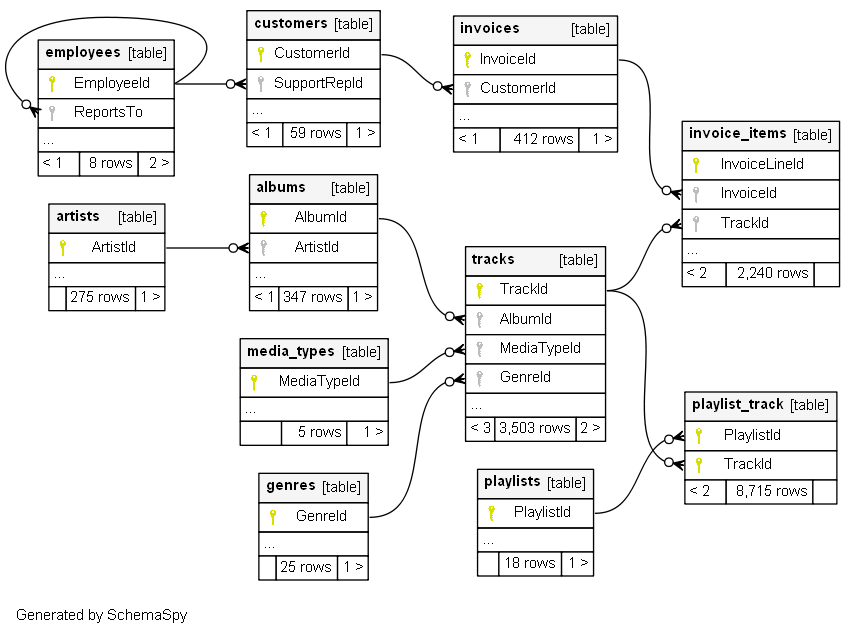
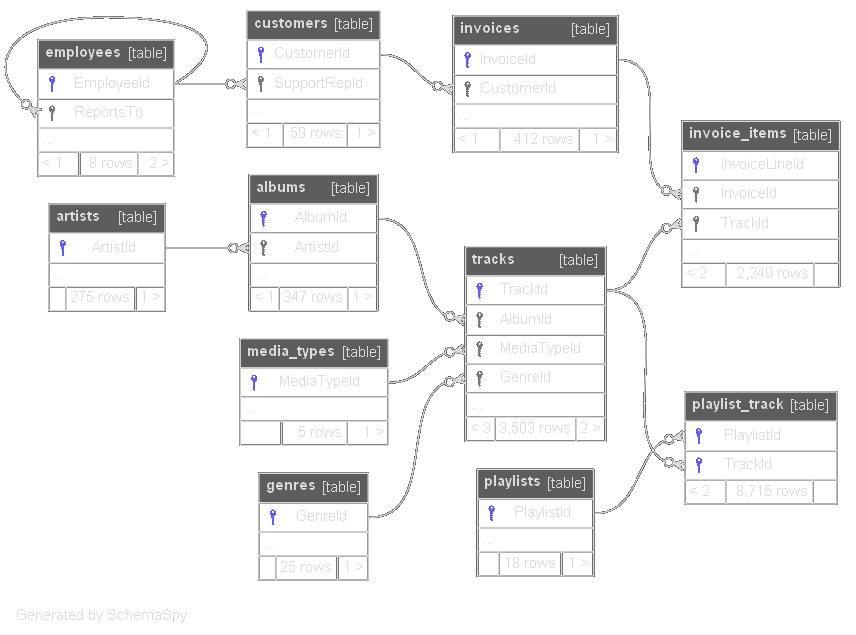
added cool stuff

diff --git a/static/bundle.js b/static/bundle.js
@@ -226,7 +226,7 @@ eval("\n\nif (false) {} else {\n  module.exports = __webpack_require__(/*! ./cjs
 /***/ (function(module, __webpack_exports__, __webpack_require__) {
 
 "use strict";
-eval("__webpack_require__.r(__webpack_exports__);\n/* harmony import */ var react__WEBPACK_IMPORTED_MODULE_0__ = __webpack_require__(/*! react */ \"./node_modules/react/index.js\");\n/* harmony import */ var react__WEBPACK_IMPORTED_MODULE_0___default = /*#__PURE__*/__webpack_require__.n(react__WEBPACK_IMPORTED_MODULE_0__);\n/* harmony import */ var react_dom__WEBPACK_IMPORTED_MODULE_1__ = __webpack_require__(/*! react-dom */ \"./node_modules/react-dom/index.js\");\n/* harmony import */ var react_dom__WEBPACK_IMPORTED_MODULE_1___default = /*#__PURE__*/__webpack_require__.n(react_dom__WEBPACK_IMPORTED_MODULE_1__);\nfunction _typeof(obj) { if (typeof Symbol === \"function\" && typeof Symbol.iterator === \"symbol\") { _typeof = function _typeof(obj) { return typeof obj; }; } else { _typeof = function _typeof(obj) { return obj && typeof Symbol === \"function\" && obj.constructor === Symbol && obj !== Symbol.prototype ? \"symbol\" : typeof obj; }; } return _typeof(obj); }\n\nfunction _classCallCheck(instance, Constructor) { if (!(instance instanceof Constructor)) { throw new TypeError(\"Cannot call a class as a function\"); } }\n\nfunction _defineProperties(target, props) { for (var i = 0; i < props.length; i++) { var descriptor = props[i]; descriptor.enumerable = descriptor.enumerable || false; descriptor.configurable = true; if (\"value\" in descriptor) descriptor.writable = true; Object.defineProperty(target, descriptor.key, descriptor); } }\n\nfunction _createClass(Constructor, protoProps, staticProps) { if (protoProps) _defineProperties(Constructor.prototype, protoProps); if (staticProps) _defineProperties(Constructor, staticProps); return Constructor; }\n\nfunction _possibleConstructorReturn(self, call) { if (call && (_typeof(call) === \"object\" || typeof call === \"function\")) { return call; } return _assertThisInitialized(self); }\n\nfunction _assertThisInitialized(self) { if (self === void 0) { throw new ReferenceError(\"this hasn't been initialised - super() hasn't been called\"); } return self; }\n\nfunction _getPrototypeOf(o) { _getPrototypeOf = Object.setPrototypeOf ? Object.getPrototypeOf : function _getPrototypeOf(o) { return o.__proto__ || Object.getPrototypeOf(o); }; return _getPrototypeOf(o); }\n\nfunction _inherits(subClass, superClass) { if (typeof superClass !== \"function\" && superClass !== null) { throw new TypeError(\"Super expression must either be null or a function\"); } subClass.prototype = Object.create(superClass && superClass.prototype, { constructor: { value: subClass, writable: true, configurable: true } }); if (superClass) _setPrototypeOf(subClass, superClass); }\n\nfunction _setPrototypeOf(o, p) { _setPrototypeOf = Object.setPrototypeOf || function _setPrototypeOf(o, p) { o.__proto__ = p; return o; }; return _setPrototypeOf(o, p); }\n\n\n\n\nvar App =\n/*#__PURE__*/\nfunction (_React$Component) {\n  _inherits(App, _React$Component);\n\n  function App() {\n    _classCallCheck(this, App);\n\n    return _possibleConstructorReturn(this, _getPrototypeOf(App).apply(this, arguments));\n  }\n\n  _createClass(App, [{\n    key: \"render\",\n    value: function render() {\n      return react__WEBPACK_IMPORTED_MODULE_0___default.a.createElement(\"div\", null, react__WEBPACK_IMPORTED_MODULE_0___default.a.createElement(\"h1\", null, \"Database Reporting App\"), react__WEBPACK_IMPORTED_MODULE_0___default.a.createElement(\"div\", {\n        className: \"miles-container\"\n      }, react__WEBPACK_IMPORTED_MODULE_0___default.a.createElement(\"a\", {\n        className: \"miles-menu-item\",\n        href: this.props.reportsurl\n      }, \"View All Reports\"), react__WEBPACK_IMPORTED_MODULE_0___default.a.createElement(\"a\", {\n        className: \"miles-menu-item\",\n        href: this.props.schemaurl\n      }, \"View Database Schema\")));\n    }\n  }]);\n\n  return App;\n}(react__WEBPACK_IMPORTED_MODULE_0___default.a.Component);\n\nvar id = 'app';\nvar root = document.getElementById(id);\n\nif (root) {\n  react_dom__WEBPACK_IMPORTED_MODULE_1___default.a.render(react__WEBPACK_IMPORTED_MODULE_0___default.a.createElement(App, root.dataset), root);\n} ///////////////////////////\n// Schema View\n\n\nvar ViewSchema =\n/*#__PURE__*/\nfunction (_React$Component2) {\n  _inherits(ViewSchema, _React$Component2);\n\n  function ViewSchema() {\n    _classCallCheck(this, ViewSchema);\n\n    return _possibleConstructorReturn(this, _getPrototypeOf(ViewSchema).apply(this, arguments));\n  }\n\n  _createClass(ViewSchema, [{\n    key: \"render\",\n    value: function render() {\n      return react__WEBPACK_IMPORTED_MODULE_0___default.a.createElement(\"div\", null, react__WEBPACK_IMPORTED_MODULE_0___default.a.createElement(\"h1\", null, \"Db Schema Compact\"), react__WEBPACK_IMPORTED_MODULE_0___default.a.createElement(\"img\", {\n        className: \"filtered v-space\",\n        src: \"/static/relationships.real.compact.png\",\n        alt: \"\"\n      }), react__WEBPACK_IMPORTED_MODULE_0___default.a.createElement(\"h1\", null, \"Db Schema Full\"), react__WEBPACK_IMPORTED_MODULE_0___default.a.createElement(\"img\", {\n        className: \"filtered v-space\",\n        src: \"/static/relationships.real.large.png\",\n        alt: \"\"\n      }));\n    }\n  }]);\n\n  return ViewSchema;\n}(react__WEBPACK_IMPORTED_MODULE_0___default.a.Component);\n\nid = 'viewschema';\nroot = document.getElementById(id);\n\nif (root) {\n  react_dom__WEBPACK_IMPORTED_MODULE_1___default.a.render(react__WEBPACK_IMPORTED_MODULE_0___default.a.createElement(ViewSchema, root.dataset), root);\n} //////////////////////////////////\n// list all reports\n\n\nvar Reports =\n/*#__PURE__*/\nfunction (_React$Component3) {\n  _inherits(Reports, _React$Component3);\n\n  function Reports(props) {\n    var _this;\n\n    _classCallCheck(this, Reports);\n\n    _this = _possibleConstructorReturn(this, _getPrototypeOf(Reports).call(this, props));\n    _this.state = {\n      reports: JSON.parse(_this.props.reports)\n    };\n    return _this;\n  }\n\n  _createClass(Reports, [{\n    key: \"render\",\n    value: function render() {\n      return react__WEBPACK_IMPORTED_MODULE_0___default.a.createElement(\"div\", null, react__WEBPACK_IMPORTED_MODULE_0___default.a.createElement(\"h1\", null, \"Reports\"), this.state.reports.map(function (report, index) {\n        return react__WEBPACK_IMPORTED_MODULE_0___default.a.createElement(\"div\", {\n          key: index\n        }, react__WEBPACK_IMPORTED_MODULE_0___default.a.createElement(\"p\", null), react__WEBPACK_IMPORTED_MODULE_0___default.a.createElement(\"a\", {\n          href: report.url\n        }, report.name));\n      }));\n    }\n  }]);\n\n  return Reports;\n}(react__WEBPACK_IMPORTED_MODULE_0___default.a.Component);\n\nid = 'reports';\nroot = document.getElementById(id);\n\nif (root) {\n  react_dom__WEBPACK_IMPORTED_MODULE_1___default.a.render(react__WEBPACK_IMPORTED_MODULE_0___default.a.createElement(Reports, root.dataset), root);\n} //////////////////////////////////////////////\n\n\nvar Report =\n/*#__PURE__*/\nfunction (_React$Component4) {\n  _inherits(Report, _React$Component4);\n\n  function Report(props) {\n    var _this2;\n\n    _classCallCheck(this, Report);\n\n    _this2 = _possibleConstructorReturn(this, _getPrototypeOf(Report).call(this, props));\n    _this2.state = {\n      reportdata: JSON.parse(_this2.props.reportdata),\n      timestamp: parseFloat(_this2.props.reporttimestamp)\n    };\n    return _this2;\n  }\n\n  _createClass(Report, [{\n    key: \"dateString\",\n    value: function dateString(timestamp) {\n      // const t = parseFloat(timestamp);\n      // console.log(t);\n      var d = new Date(timestamp * 1000);\n      d.setMilliseconds(0, 0);\n      return d.toISOString().replace(\"T\", \" \").replace(\".000\", \"\");\n    }\n  }, {\n    key: \"handleClick\",\n    value: function handleClick() {\n      exportTableToCSV(this.props.reportname + \" \" + this.dateString(this.state.timestamp) + \".csv\");\n    }\n  }, {\n    key: \"render\",\n    value: function render() {\n      return react__WEBPACK_IMPORTED_MODULE_0___default.a.createElement(\"div\", null, react__WEBPACK_IMPORTED_MODULE_0___default.a.createElement(\"h1\", null, this.props.reportname), react__WEBPACK_IMPORTED_MODULE_0___default.a.createElement(\"pre\", null, react__WEBPACK_IMPORTED_MODULE_0___default.a.createElement(\"code\", null, this.props.reportquery)), react__WEBPACK_IMPORTED_MODULE_0___default.a.createElement(\"button\", {\n        className: \"pure-button\",\n        onClick: this.handleClick.bind(this)\n      }, \"Download as CSV\"), react__WEBPACK_IMPORTED_MODULE_0___default.a.createElement(\"table\", {\n        className: \"pure-table pure-table-bordered\"\n      }, react__WEBPACK_IMPORTED_MODULE_0___default.a.createElement(\"caption\", null, this.props.reportname, \" \", this.dateString(this.state.timestamp)), react__WEBPACK_IMPORTED_MODULE_0___default.a.createElement(\"thead\", null, react__WEBPACK_IMPORTED_MODULE_0___default.a.createElement(\"tr\", null, this.state.reportdata.columns.map(function (column, index) {\n        return react__WEBPACK_IMPORTED_MODULE_0___default.a.createElement(\"td\", {\n          key: index\n        }, column);\n      }))), react__WEBPACK_IMPORTED_MODULE_0___default.a.createElement(\"tbody\", null, this.state.reportdata.data.map(function (row, index) {\n        return react__WEBPACK_IMPORTED_MODULE_0___default.a.createElement(\"tr\", {\n          key: \"row\" + index\n        }, row.map(function (item, index) {\n          return react__WEBPACK_IMPORTED_MODULE_0___default.a.createElement(\"td\", {\n            key: \"item\" + index\n          }, item);\n        }));\n      }))));\n    }\n  }]);\n\n  return Report;\n}(react__WEBPACK_IMPORTED_MODULE_0___default.a.Component);\n\nid = 'report';\nroot = document.getElementById(id);\n\nif (root) {\n  react_dom__WEBPACK_IMPORTED_MODULE_1___default.a.render(react__WEBPACK_IMPORTED_MODULE_0___default.a.createElement(Report, root.dataset), root);\n}\n\n//# sourceURL=webpack:///./src/index.jsx?");
+eval("__webpack_require__.r(__webpack_exports__);\n/* harmony import */ var react__WEBPACK_IMPORTED_MODULE_0__ = __webpack_require__(/*! react */ \"./node_modules/react/index.js\");\n/* harmony import */ var react__WEBPACK_IMPORTED_MODULE_0___default = /*#__PURE__*/__webpack_require__.n(react__WEBPACK_IMPORTED_MODULE_0__);\n/* harmony import */ var react_dom__WEBPACK_IMPORTED_MODULE_1__ = __webpack_require__(/*! react-dom */ \"./node_modules/react-dom/index.js\");\n/* harmony import */ var react_dom__WEBPACK_IMPORTED_MODULE_1___default = /*#__PURE__*/__webpack_require__.n(react_dom__WEBPACK_IMPORTED_MODULE_1__);\nfunction _typeof(obj) { if (typeof Symbol === \"function\" && typeof Symbol.iterator === \"symbol\") { _typeof = function _typeof(obj) { return typeof obj; }; } else { _typeof = function _typeof(obj) { return obj && typeof Symbol === \"function\" && obj.constructor === Symbol && obj !== Symbol.prototype ? \"symbol\" : typeof obj; }; } return _typeof(obj); }\n\nfunction _classCallCheck(instance, Constructor) { if (!(instance instanceof Constructor)) { throw new TypeError(\"Cannot call a class as a function\"); } }\n\nfunction _defineProperties(target, props) { for (var i = 0; i < props.length; i++) { var descriptor = props[i]; descriptor.enumerable = descriptor.enumerable || false; descriptor.configurable = true; if (\"value\" in descriptor) descriptor.writable = true; Object.defineProperty(target, descriptor.key, descriptor); } }\n\nfunction _createClass(Constructor, protoProps, staticProps) { if (protoProps) _defineProperties(Constructor.prototype, protoProps); if (staticProps) _defineProperties(Constructor, staticProps); return Constructor; }\n\nfunction _possibleConstructorReturn(self, call) { if (call && (_typeof(call) === \"object\" || typeof call === \"function\")) { return call; } return _assertThisInitialized(self); }\n\nfunction _assertThisInitialized(self) { if (self === void 0) { throw new ReferenceError(\"this hasn't been initialised - super() hasn't been called\"); } return self; }\n\nfunction _getPrototypeOf(o) { _getPrototypeOf = Object.setPrototypeOf ? Object.getPrototypeOf : function _getPrototypeOf(o) { return o.__proto__ || Object.getPrototypeOf(o); }; return _getPrototypeOf(o); }\n\nfunction _inherits(subClass, superClass) { if (typeof superClass !== \"function\" && superClass !== null) { throw new TypeError(\"Super expression must either be null or a function\"); } subClass.prototype = Object.create(superClass && superClass.prototype, { constructor: { value: subClass, writable: true, configurable: true } }); if (superClass) _setPrototypeOf(subClass, superClass); }\n\nfunction _setPrototypeOf(o, p) { _setPrototypeOf = Object.setPrototypeOf || function _setPrototypeOf(o, p) { o.__proto__ = p; return o; }; return _setPrototypeOf(o, p); }\n\n\n\n\nvar App =\n/*#__PURE__*/\nfunction (_React$Component) {\n  _inherits(App, _React$Component);\n\n  function App() {\n    _classCallCheck(this, App);\n\n    return _possibleConstructorReturn(this, _getPrototypeOf(App).apply(this, arguments));\n  }\n\n  _createClass(App, [{\n    key: \"render\",\n    value: function render() {\n      return react__WEBPACK_IMPORTED_MODULE_0___default.a.createElement(\"div\", null, react__WEBPACK_IMPORTED_MODULE_0___default.a.createElement(\"h1\", null, \"Database Reporting App\"));\n    }\n  }]);\n\n  return App;\n}(react__WEBPACK_IMPORTED_MODULE_0___default.a.Component);\n\nvar id = 'app';\nvar root = document.getElementById(id);\n\nif (root) {\n  react_dom__WEBPACK_IMPORTED_MODULE_1___default.a.render(react__WEBPACK_IMPORTED_MODULE_0___default.a.createElement(App, root.dataset), root);\n} ///////////////////////////\n// Schema View\n\n\nvar compactImage = \"/static/relationships.real.compact.png\";\nvar largeImage = \"/static/relationships.real.large.png\";\n\nvar ViewSchema =\n/*#__PURE__*/\nfunction (_React$Component2) {\n  _inherits(ViewSchema, _React$Component2);\n\n  function ViewSchema() {\n    _classCallCheck(this, ViewSchema);\n\n    return _possibleConstructorReturn(this, _getPrototypeOf(ViewSchema).apply(this, arguments));\n  }\n\n  _createClass(ViewSchema, [{\n    key: \"render\",\n    value: function render() {\n      return react__WEBPACK_IMPORTED_MODULE_0___default.a.createElement(\"div\", {\n        className: \"miles-imgs\"\n      }, react__WEBPACK_IMPORTED_MODULE_0___default.a.createElement(\"div\", null, react__WEBPACK_IMPORTED_MODULE_0___default.a.createElement(\"h1\", null, \"Db Schema Compact\"), react__WEBPACK_IMPORTED_MODULE_0___default.a.createElement(\"a\", {\n        href: compactImage\n      }, react__WEBPACK_IMPORTED_MODULE_0___default.a.createElement(\"img\", {\n        className: \"miles-img v-space\",\n        src: compactImage,\n        alt: \"\"\n      }))), react__WEBPACK_IMPORTED_MODULE_0___default.a.createElement(\"div\", null, react__WEBPACK_IMPORTED_MODULE_0___default.a.createElement(\"h1\", null, \"Db Schema Full\"), react__WEBPACK_IMPORTED_MODULE_0___default.a.createElement(\"a\", {\n        href: largeImage\n      }, react__WEBPACK_IMPORTED_MODULE_0___default.a.createElement(\"img\", {\n        className: \"miles-img v-space\",\n        src: largeImage,\n        alt: \"\"\n      }))));\n    }\n  }]);\n\n  return ViewSchema;\n}(react__WEBPACK_IMPORTED_MODULE_0___default.a.Component);\n\nid = 'viewschema';\nroot = document.getElementById(id);\n\nif (root) {\n  react_dom__WEBPACK_IMPORTED_MODULE_1___default.a.render(react__WEBPACK_IMPORTED_MODULE_0___default.a.createElement(ViewSchema, root.dataset), root);\n} //////////////////////////////////\n// list all reports\n\n\nvar Reports =\n/*#__PURE__*/\nfunction (_React$Component3) {\n  _inherits(Reports, _React$Component3);\n\n  function Reports(props) {\n    var _this;\n\n    _classCallCheck(this, Reports);\n\n    _this = _possibleConstructorReturn(this, _getPrototypeOf(Reports).call(this, props));\n    _this.state = {\n      reports: JSON.parse(_this.props.reports)\n    };\n    return _this;\n  }\n\n  _createClass(Reports, [{\n    key: \"render\",\n    value: function render() {\n      return react__WEBPACK_IMPORTED_MODULE_0___default.a.createElement(\"div\", null, react__WEBPACK_IMPORTED_MODULE_0___default.a.createElement(\"h1\", null, \"Reports\"), this.state.reports.map(function (report, index) {\n        return react__WEBPACK_IMPORTED_MODULE_0___default.a.createElement(\"div\", {\n          key: index\n        }, react__WEBPACK_IMPORTED_MODULE_0___default.a.createElement(\"p\", null), react__WEBPACK_IMPORTED_MODULE_0___default.a.createElement(\"a\", {\n          href: report.url\n        }, report.name));\n      }));\n    }\n  }]);\n\n  return Reports;\n}(react__WEBPACK_IMPORTED_MODULE_0___default.a.Component);\n\nid = 'reports';\nroot = document.getElementById(id);\n\nif (root) {\n  react_dom__WEBPACK_IMPORTED_MODULE_1___default.a.render(react__WEBPACK_IMPORTED_MODULE_0___default.a.createElement(Reports, root.dataset), root);\n} //////////////////////////////////////////////\n\n\nvar Report =\n/*#__PURE__*/\nfunction (_React$Component4) {\n  _inherits(Report, _React$Component4);\n\n  function Report(props) {\n    var _this2;\n\n    _classCallCheck(this, Report);\n\n    _this2 = _possibleConstructorReturn(this, _getPrototypeOf(Report).call(this, props));\n    _this2.state = {\n      reportdata: JSON.parse(_this2.props.reportdata),\n      timestamp: parseFloat(_this2.props.reporttimestamp)\n    };\n    return _this2;\n  }\n\n  _createClass(Report, [{\n    key: \"dateString\",\n    value: function dateString(timestamp) {\n      // const t = parseFloat(timestamp);\n      // console.log(t);\n      var d = new Date(timestamp * 1000);\n      d.setMilliseconds(0, 0);\n      return d.toISOString().replace(\"T\", \" \").replace(\".000\", \"\");\n    }\n  }, {\n    key: \"handleClick\",\n    value: function handleClick() {\n      exportTableToCSV(this.props.reportname + \" \" + this.dateString(this.state.timestamp) + \".csv\");\n    }\n  }, {\n    key: \"render\",\n    value: function render() {\n      return react__WEBPACK_IMPORTED_MODULE_0___default.a.createElement(\"div\", null, react__WEBPACK_IMPORTED_MODULE_0___default.a.createElement(\"h1\", null, this.props.reportname), react__WEBPACK_IMPORTED_MODULE_0___default.a.createElement(\"pre\", null, react__WEBPACK_IMPORTED_MODULE_0___default.a.createElement(\"code\", null, this.props.reportquery)), react__WEBPACK_IMPORTED_MODULE_0___default.a.createElement(\"div\", {\n        className: \"miles-pad-top\"\n      }, react__WEBPACK_IMPORTED_MODULE_0___default.a.createElement(\"button\", {\n        className: \"pure-button\",\n        onClick: this.handleClick.bind(this)\n      }, \"Download as CSV\")), react__WEBPACK_IMPORTED_MODULE_0___default.a.createElement(\"table\", {\n        className: \"pure-table pure-table-bordered\"\n      }, react__WEBPACK_IMPORTED_MODULE_0___default.a.createElement(\"caption\", null, this.props.reportname, \" \", this.dateString(this.state.timestamp)), react__WEBPACK_IMPORTED_MODULE_0___default.a.createElement(\"thead\", null, react__WEBPACK_IMPORTED_MODULE_0___default.a.createElement(\"tr\", null, this.state.reportdata.columns.map(function (column, index) {\n        return react__WEBPACK_IMPORTED_MODULE_0___default.a.createElement(\"td\", {\n          key: index\n        }, column);\n      }))), react__WEBPACK_IMPORTED_MODULE_0___default.a.createElement(\"tbody\", null, this.state.reportdata.data.map(function (row, index) {\n        return react__WEBPACK_IMPORTED_MODULE_0___default.a.createElement(\"tr\", {\n          key: \"row\" + index\n        }, row.map(function (item, index) {\n          return react__WEBPACK_IMPORTED_MODULE_0___default.a.createElement(\"td\", {\n            key: \"item\" + index\n          }, item);\n        }));\n      }))));\n    }\n  }]);\n\n  return Report;\n}(react__WEBPACK_IMPORTED_MODULE_0___default.a.Component);\n\nid = 'report';\nroot = document.getElementById(id);\n\nif (root) {\n  react_dom__WEBPACK_IMPORTED_MODULE_1___default.a.render(react__WEBPACK_IMPORTED_MODULE_0___default.a.createElement(Report, root.dataset), root);\n}\n\n//# sourceURL=webpack:///./src/index.jsx?");
 
 /***/ }),
 

diff --git a/src/index.jsx b/src/index.jsx
@@ -7,10 +7,10 @@ class App extends React.Component {
         return (
             <div>
                 <h1>Database Reporting App</h1>
-                <div className="miles-container">
+                {/* <div className="miles-container">
                     <a className="miles-menu-item" href={this.props.reportsurl}>View All Reports</a>
                     <a className="miles-menu-item" href={this.props.schemaurl}>View Database Schema</a>
-                </div>
+                </div> */}
             </div>
         );
     }
@@ -24,14 +24,30 @@ if (root) {
 
 ///////////////////////////
 // Schema View
+const compactImage = "/static/relationships.real.compact.png";
+const largeImage = "/static/relationships.real.large.png";
+
 class ViewSchema extends React.Component {
+
+
     render() {
         return (
-            <div>
-                <h1>Db Schema Compact</h1>
-                <img className="filtered v-space" src="/static/relationships.real.compact.png" alt="" />
-                <h1>Db Schema Full</h1>
-                <img className="filtered v-space" src="/static/relationships.real.large.png" alt="" />
+            <div className="miles-imgs">
+                <div>
+                    <h1>Db Schema Compact</h1>
+                    <a href={compactImage}>
+                        <img className="miles-img v-space" src={compactImage} alt="" />
+                    </a>
+                </div>
+
+                <div>
+                    <h1>Db Schema Full</h1>
+                    <a href={largeImage}>
+                        <img className="miles-img v-space" src={largeImage} alt="" />
+                    </a>
+                </div>
+
+
             </div>
         );
     }
@@ -100,7 +116,9 @@ class Report extends React.Component {
             <div>
                 <h1>{this.props.reportname}</h1>
                 <pre><code>{this.props.reportquery}</code></pre>
-                <button className="pure-button" onClick={this.handleClick.bind(this)}>Download as CSV</button>
+                <div className="miles-pad-top">
+                    <button className="pure-button" onClick={this.handleClick.bind(this)}>Download as CSV</button>
+                </div>
                 <table className="pure-table pure-table-bordered">
                     <caption>{this.props.reportname} {this.dateString(this.state.timestamp)}</caption>
                     <thead>

diff --git a/static/miles.css b/static/miles.css
@@ -1,6 +1,7 @@
-html, body {
+html {
     background-color: rgb(15, 15, 15);
     color: lightgray;
+    overflow-y: scroll;
 }
 
 a {
@@ -9,7 +10,7 @@ a {
 
 img.filtered {
     /* -webkit-filter: invert(75%) brightness(1.25); */
-    filter: invert(100%) contrast(0.5) brightness(1.25);
+    /* filter: invert(100%) contrast(0.5) brightness(1.25); */
 }
 
 .pure-table thead {
@@ -24,6 +25,25 @@ img.filtered {
 .miles-container {
     padding: 15px;
 }
+.miles-pad-top {
+    padding-top: 25px;
+}
+
+.miles-img {
+    width: 100%;
+    max-width: 500px;
+    min-width: 200px;
+}
+
+.miles-a {
+    width: 100%;
+}
+
+.miles-imgs {
+    display: flex;
+    flex-wrap: wrap;
+    justify-content: space-around;
+}
 
 .miles-menu-item {
     /* padding-left: 15px; */
@@ -32,4 +52,53 @@ img.filtered {
 
 .v-space {
     padding-top: 25px;
+}
+
+/* Navbar */
+
+.navigation {
+    list-style: none;
+    margin: 0;
+    background: #10181a;
+    display: -webkit-box;
+    display: -moz-box;
+    display: -ms-flexbox;
+    display: -webkit-flex;
+    display: flex;
+    -webkit-flex-flow: row wrap;
+    justify-content: flex-end;
+}
+
+.navigation a {
+    text-decoration: none;
+    display: block;
+    padding: 1em;
+    color: white;
+}
+
+.navigation a:hover {
+    background: #585f5f;
+}
+
+@media all and (max-width: 800px) {
+    .navigation {
+        justify-content: space-around;
+    }
+}
+
+@media all and (max-width: 600px) {
+    .navigation {
+        -webkit-flex-flow: column wrap;
+        flex-flow: column wrap;
+        padding: 0;
+    }
+    .navigation a {
+        text-align: center;
+        padding: 10px;
+        border-top: 1px solid rgba(255, 255, 255, 0.3);
+        border-bottom: 1px solid rgba(0, 0, 0, 0.1);
+    }
+    .navigation li:last-of-type a {
+        border-bottom: none;
+    }
 }

diff --git a/templates/report.html b/templates/report.html
@@ -3,14 +3,7 @@
 
 <head>
   <title>Report</title>
-  <meta name="viewport" content="width=device-width, initial-scale=1">
-  <link rel="apple-touch-icon" sizes="180x180" href="/static/apple-touch-icon.png">
-  <link rel="icon" type="image/png" sizes="32x32" href="/static/favicon-32x32.png">
-  <link rel="icon" type="image/png" sizes="16x16" href="/static/favicon-16x16.png">
-  <link rel="manifest" href="/static/site.webmanifest">
-  <link rel="stylesheet" href="/static/highlight/styles/vs2015.css">
-  <link rel="stylesheet" href="/static/pure-min.css">
-  <link rel="stylesheet" href="/static/miles.css">
+  {% include 'head.html' %}
   <script src="/static/highlight/highlight.pack.js"></script>
   <script>
     hljs.initHighlightingOnLoad();
@@ -65,16 +58,13 @@
 </head>
 
 <body>
-  <div class="miles-container">
-    <a class="miles-menu-item" href="{{home_url}}">Home Page</a>
-    <a class="miles-menu-item" href="{{schema_url}}">DB Schema Diagram</a>
-    <a class="miles-menu-item" href="{{reports_url}}">View All Reports</a>
+    {% include 'topnav.html' %}
 
     <div class="miles-container">
       <div id="report" data-reportname="{{name}}" data-reportdata="{{data}}" data-reportquery="{{query}}"
         data-reporttimestamp="{{timestamp}}"></div>
     </div>
-  </div>
+
   <script src="/static/bundle.js"></script>
 </body>
 

diff --git a/templates/reports.html b/templates/reports.html
@@ -3,14 +3,7 @@
 
 <head>
   <title>Reports</title>
-  <meta name="viewport" content="width=device-width, initial-scale=1">
-  <link rel="apple-touch-icon" sizes="180x180" href="/static/apple-touch-icon.png">
-  <link rel="icon" type="image/png" sizes="32x32" href="/static/favicon-32x32.png">
-  <link rel="icon" type="image/png" sizes="16x16" href="/static/favicon-16x16.png">
-  <link rel="manifest" href="/static/site.webmanifest">
-  <link rel="stylesheet" href="/static/highlight/styles/vs2015.css">
-  <link rel="stylesheet" href="/static/pure-min.css">
-  <link rel="stylesheet" href="/static/miles.css">
+  {% include 'head.html' %}
   <script src="/static/highlight/highlight.pack.js"></script>
   <script>
     hljs.initHighlightingOnLoad();
@@ -18,13 +11,15 @@
 </head>
 
 <body>
-  <div class="miles-container">
+    {% include 'topnav.html' %}
+
+  <!-- <div class="miles-container">
     <a class="miles-menu-item" href="{{home_url}}">Home Page</a>
-    <a class="miles-menu-item" href="{{schema_url}}">DB Schema Diagram</a>
+    <a class="miles-menu-item" href="{{schema_url}}">DB Schema Diagram</a> -->
     <div class="miles-container">
       <div id="reports" data-reports="{{reports}}"></div>
     </div>
-  </div>
+  <!-- </div> -->
 
   <script src="/static/bundle.js"></script>
 </body>

diff --git a/templates/view-schema.html b/templates/view-schema.html
@@ -3,20 +3,18 @@
 
 <head>
   <title>Flask React App</title>
-  <meta name="viewport" content="width=device-width, initial-scale=1">
-  <link rel="apple-touch-icon" sizes="180x180" href="/static/apple-touch-icon.png">
-  <link rel="icon" type="image/png" sizes="32x32" href="/static/favicon-32x32.png">
-  <link rel="icon" type="image/png" sizes="16x16" href="/static/favicon-16x16.png">
-  <link rel="manifest" href="/static/site.webmanifest">
-  <link rel="stylesheet" href="/static/highlight/styles/solarized-light.css">
-  <link rel="stylesheet" href="/static/pure-min.css">
-  <link rel="stylesheet" href="/static/miles.css">
+  {% include 'head.html' %}
 </head>
 
 <body>
+    {% include 'topnav.html' %}
+    <!-- <ul class="navigation">
+      <li><a class="miles-menu-item" href="{{home_url}}">Home Page</a></li>
+      <li><a class="miles-menu-item" href="{{reports_url}}">View All Reports</a></li>
+    </ul>   -->
   <div class="miles-container">
-    <a class="miles-menu-item" href="{{home_url}}">Home Page</a>
-    <a class="miles-menu-item" href="{{reports_url}}">View All Reports</a>
+    
+    
     <div class="miles-container">
       <div id="viewschema"></div>
     </div>

diff --git a/templates/index.html b/templates/index.html
@@ -3,17 +3,19 @@
 
 <head>
   <title>Flask React App</title>
-  <meta name="viewport" content="width=device-width, initial-scale=1">
+  {% include 'head.html' %}
+  <!-- <meta name="viewport" content="width=device-width, initial-scale=1">
   <link rel="apple-touch-icon" sizes="180x180" href="/static/apple-touch-icon.png">
   <link rel="icon" type="image/png" sizes="32x32" href="/static/favicon-32x32.png">
   <link rel="icon" type="image/png" sizes="16x16" href="/static/favicon-16x16.png">
   <link rel="manifest" href="/static/site.webmanifest">
   <link rel="stylesheet" href="/static/highlight/styles/solarized-light.css">
   <link rel="stylesheet" href="/static/pure-min.css">
-  <link rel="stylesheet" href="/static/miles.css">
+  <link rel="stylesheet" href="/static/miles.css"> -->
 </head>
 
 <body>
+    {% include 'topnav.html' %}
   <div class="miles-container">
     <!-- <a href="{{reports_url}}">View All Reports</a> -->
     <div id="app" data-reportsurl="{{reports_url}}" data-schemaurl="{{schema_url}}"></div>

diff --git a/templates/head.html b/templates/head.html
@@ -1,0 +1,8 @@
+<meta name="viewport" content="width=device-width, initial-scale=1">
+<link rel="apple-touch-icon" sizes="180x180" href="/static/apple-touch-icon.png">
+<link rel="icon" type="image/png" sizes="32x32" href="/static/favicon-32x32.png">
+<link rel="icon" type="image/png" sizes="16x16" href="/static/favicon-16x16.png">
+<link rel="manifest" href="/static/site.webmanifest">
+<link rel="stylesheet" href="/static/highlight/styles/vs2015.css">
+<link rel="stylesheet" href="/static/pure-min.css">
+<link rel="stylesheet" href="/static/miles.css">

diff --git a/templates/topnav.html b/templates/topnav.html
@@ -1,0 +1,5 @@
+<ul class="navigation">
+    <li><a class="miles-menu-item" href="{{home_url}}">Home Page</a></li>
+    <li><a class="miles-menu-item" href="{{reports_url}}">View All Reports</a></li>
+    <li><a class="miles-menu-item" href="{{schema_url}}">DB Schema Diagram</a></li>
+</ul>
